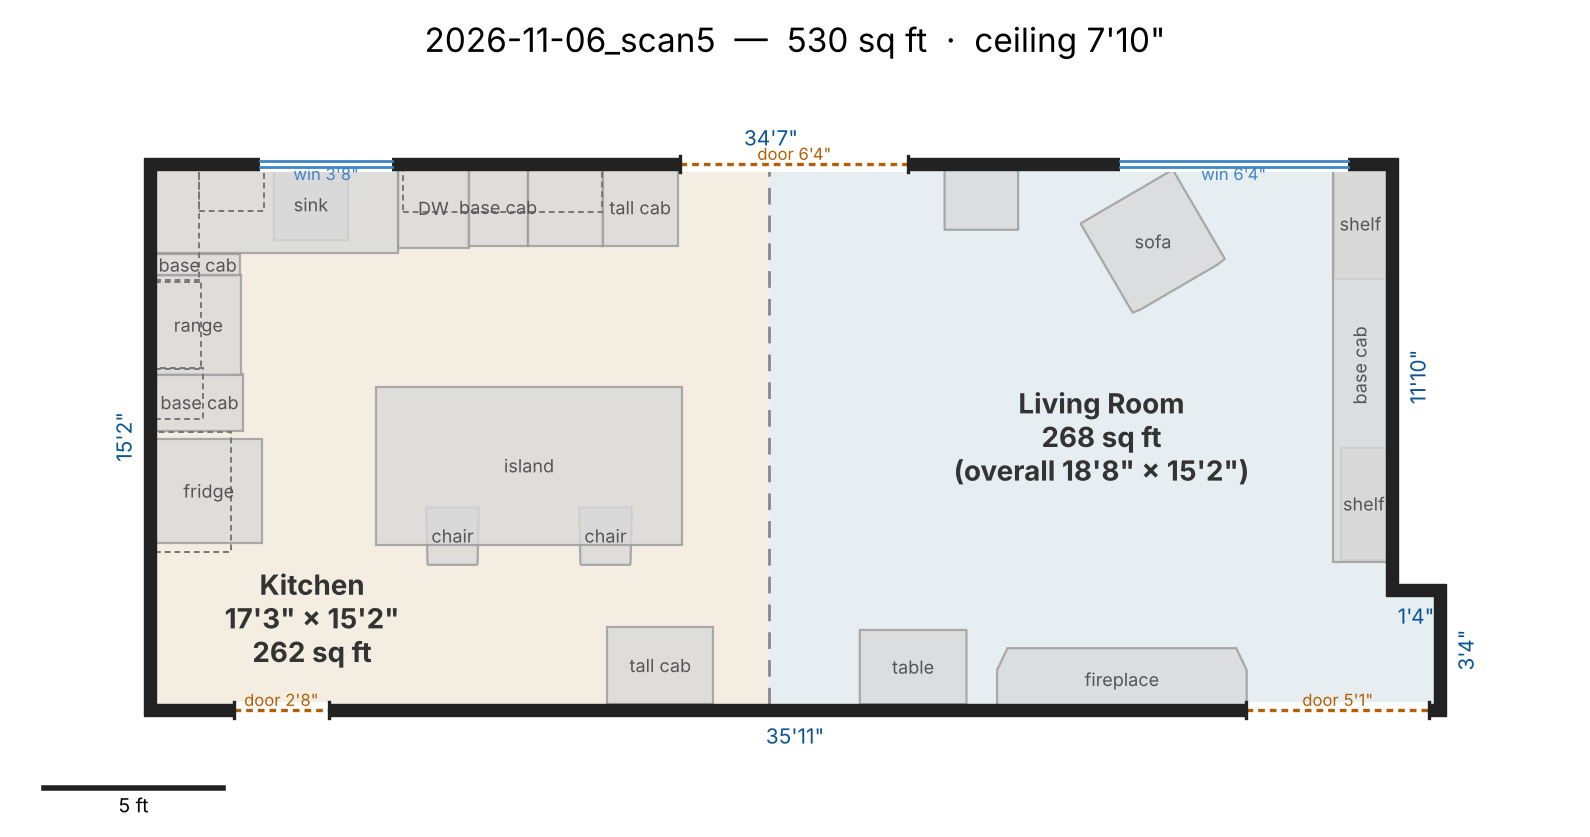
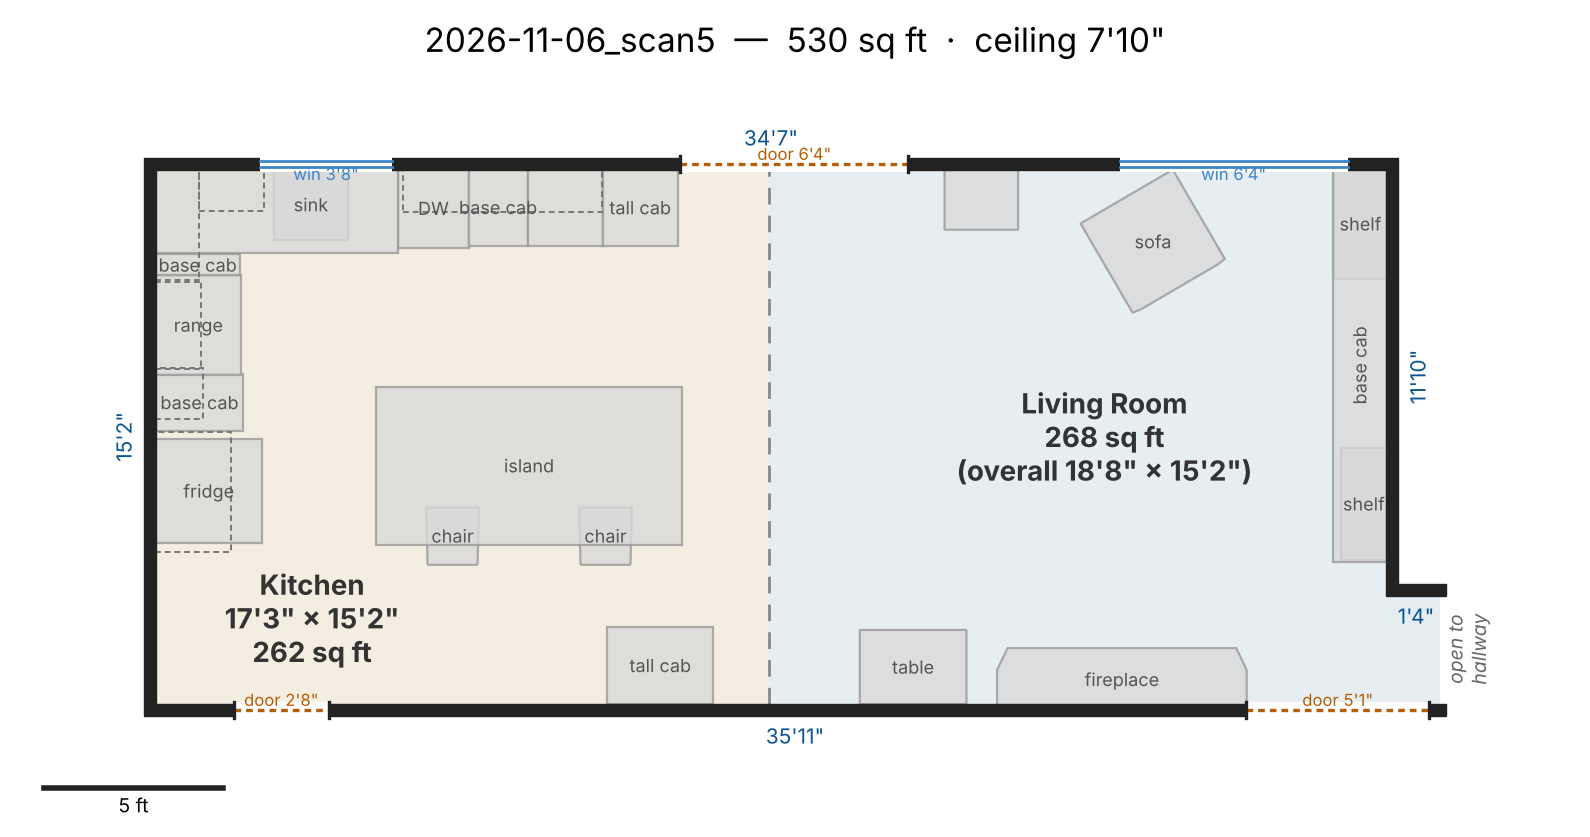
Living room: remove 3'4" wall where the room opens to the hallway
Claude-Session: https://claude.ai/code/session_01Exa1nExnPtqhU6ZZi1P36r

Changed region(s): [[0.5855, 0.4659, 0.8013, 0.5902], [0.8937, 0.7145, 0.9553, 0.8387]]

diff --git a/README.md b/README.md
@@ -61,7 +61,8 @@ detected piece of furniture are in the matching `floorplans/*.json` files.
   where RoomPlan put the boundary between them. The plan is turned 90° clockwise
   (`scans/2026-11-06_scan5.edits.json`). Ceiling is 7'10", lower than the other rooms.
   The scanner's top-right "fridge" in the kitchen is really a tall cabinet, and the 25" gap to its
-  left is filled with a base cabinet.
+  left is filled with a base cabinet. The 3'4" wall at the living room's SE corner is removed: that
+  corner opens to a hallway.
 - **Scan 2:** The "storage cabinet" on the left wall starts 5'3" off the floor, so it's most likely
   upper or wall-mounted cabinets.
 - **Scan 3:** The left wall has a 3'11" opening with no door (an archway or cased opening).
